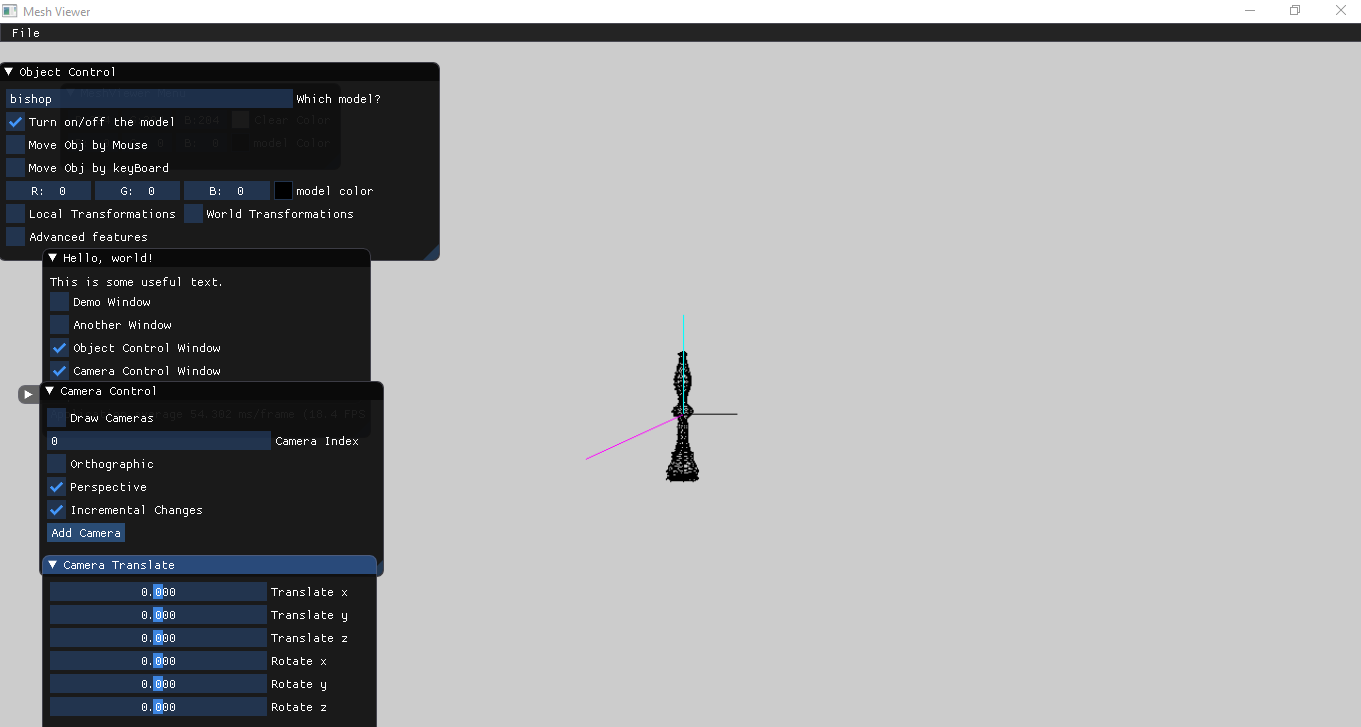
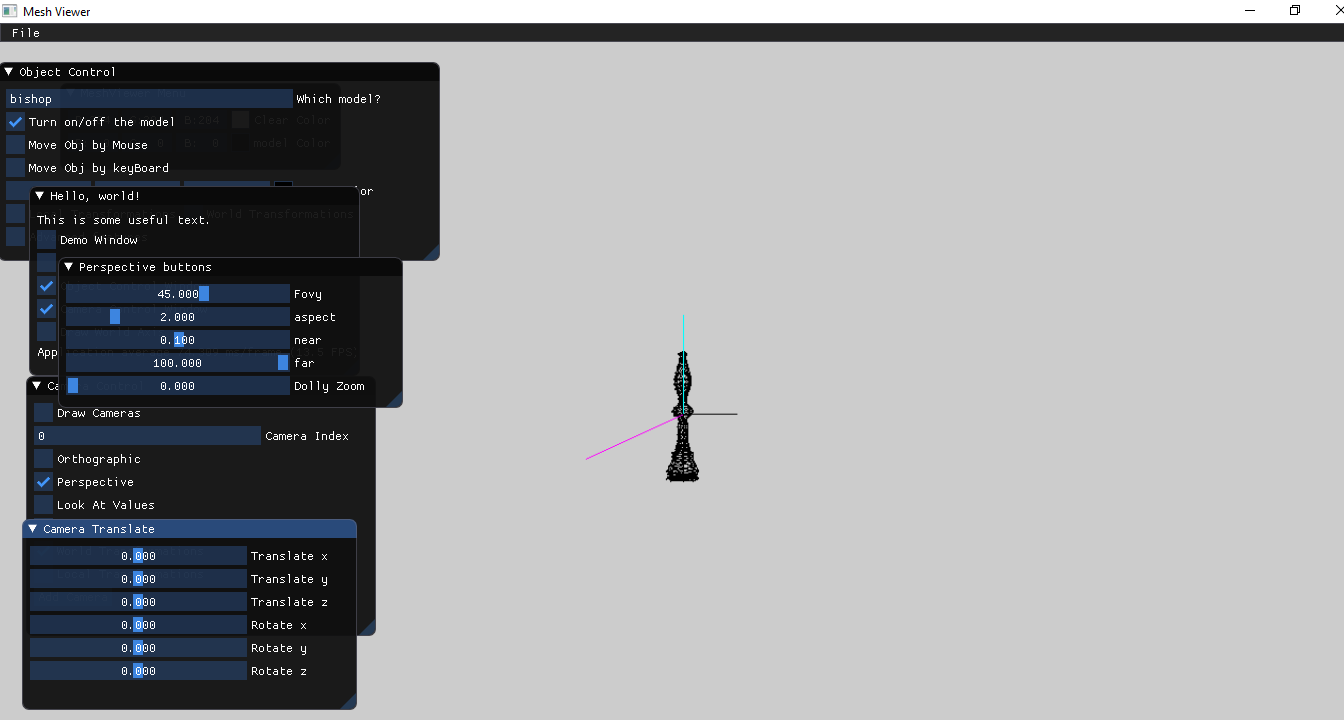
Pushing Assignment 1 part c final report and images.

diff --git a/Viewer/src/Renderer.cpp b/Viewer/src/Renderer.cpp
@@ -287,6 +287,22 @@ void Renderer::drawModelAxies(Scene& scene, MeshModel meshModel)
 	glm::fvec4 localY = mat * glm::fvec4(0, 140, 0, 1);
 	glm::fvec4 localZ = mat * glm::fvec4(0, 0, 140, 1);
 
+	modelAxies.x /= modelAxies.w;
+	modelAxies.y /= modelAxies.w;
+	modelAxies.z /= modelAxies.w;
+
+	localX.x /= localX.w;
+	localX.y /= localX.w;
+	localX.z /= localX.w;
+
+	localY.x /= localY.w;
+	localY.y /= localY.w;
+	localY.z /= localY.w;
+
+	localZ.x /= localZ.w;
+	localZ.y /= localZ.w;
+	localZ.z /= localZ.w;
+
 	DrawLine(modelAxies, localX, glm::fvec3(0, 0, 0));
 	DrawLine(modelAxies, localY, glm::fvec3(0, 1, 1));
 	DrawLine(modelAxies, localZ, glm::fvec3(1, 0, 1));
@@ -355,22 +371,31 @@ void Renderer::drawBoudingBox(Scene& scene, MeshModel meshModel, bool isLocal)
 
 	glm::fvec4 f3 = mat * glm::fvec4(meshModel.max_x, meshModel.min_y, meshModel.max_z, 1);
 
+	f0.x /= f0.w; f0.y /= f0.w; f0.z /= f0.w;
+	f1.x /= f1.w; f1.y /= f1.w; f1.z /= f1.w;
+	f2.x /= f2.w; f2.y /= f2.w; f2.z /= f2.w;
+	f3.x /= f3.w; f3.y /= f3.w; f3.z /= f3.w;
+	f4.x /= f4.w; f4.y /= f4.w; f4.z /= f4.w;
+	f6.x /= f6.w; f6.y /= f6.w; f6.z /= f6.w;
+	f7.x /= f7.w; f7.y /= f7.w; f7.z /= f7.w;
+	f8.x /= f8.w; f8.y /= f8.w; f8.z /= f8.w;
 
-	DrawLine(f0, f1, glm::vec3(1, 1, 1));
-	DrawLine(f0, f4, glm::vec3(1, 1, 1));
-	DrawLine(f0, f3, glm::vec3(1, 1, 1));
 
-	DrawLine(f7, f1, glm::vec3(1, 1, 1));
-	DrawLine(f7, f4, glm::vec3(1, 1, 1));
-	DrawLine(f7, f6, glm::vec3(1, 1, 1));
+	DrawLine(f0, f1, glm::vec3(1, 0, 0));
+	DrawLine(f0, f4, glm::vec3(1, 0, 0));
+	DrawLine(f0, f3, glm::vec3(1, 0, 0));
 
-	DrawLine(f2, f3, glm::vec3(1, 1, 1));
-	DrawLine(f2, f1, glm::vec3(1, 1, 1));
-	DrawLine(f6, f2, glm::vec3(1, 1, 1));
+	DrawLine(f7, f1, glm::vec3(1, 0, 0));
+	DrawLine(f7, f4, glm::vec3(1, 0, 0));
+	DrawLine(f7, f6, glm::vec3(1, 0, 0));
 
-	DrawLine(f8, f4, glm::vec3(1, 1, 1));
-	DrawLine(f8, f3, glm::vec3(1, 1, 1));
-	DrawLine(f8, f6, glm::vec3(1, 1, 1));
+	DrawLine(f2, f3, glm::vec3(1, 0, 0));
+	DrawLine(f2, f1, glm::vec3(1, 0, 0));
+	DrawLine(f6, f2, glm::vec3(1, 0, 0));
+
+	DrawLine(f8, f4, glm::vec3(1, 0, 0));
+	DrawLine(f8, f3, glm::vec3(1, 0, 0));
+	DrawLine(f8, f6, glm::vec3(1, 0, 0));
 }
 
 void Renderer::drawCameras(Scene& scene)
@@ -391,21 +416,17 @@ void Renderer::drawCameras(Scene& scene)
 		cords[0].y = transformP1.y;
 		cords[0].z = transformP1.z;
 
-		cords[0].z = transformP1.w;
 
 		glm::vec4 transformP2 = mat * glm::vec4(cords[1], 1);
 		cords[1].x = transformP2.x;
 		cords[1].y = transformP2.y;
 		cords[1].z = transformP2.z;
-		cords[1].z = transformP2.w;
 
 
 		glm::vec4 transformP3 = mat * glm::vec4(cords[2], 1);
 		cords[2].x = transformP3.x;
 		cords[2].y = transformP3.y;
 		cords[2].z = transformP3.z;
-
-		cords[2].z = transformP3.w;
 
 		if (cords[0].x > cords[1].x)
 			DrawTriangle(cords[2], cords[1], cords[0], glm::fvec3(0));

diff --git a/Viewer/src/main.cpp b/Viewer/src/main.cpp
@@ -27,6 +27,7 @@ static bool worldTrans = false;
 static bool incChanges = false;
 static bool cameraWorldTrans = false;
 static bool cameraLocalTrans = false;
+static bool lookatCB = false;
 static char modelName[100];
 static double mouseX = 640;
 static double mouseY = 360;
@@ -534,6 +535,7 @@ void DrawImguiMenus(ImGuiIO& io, Scene& scene)
 			ImGui::InputInt("Camera Index", &num, number, number1, false);
 			ImGui::Checkbox("Orthographic", &ortho);
 			ImGui::Checkbox("Perspective", &persp);
+			ImGui::Checkbox("Look At Values", &lookatCB);
 			ImGui::Checkbox("Incremental Changes", &incChanges);
 			if (incChanges) {
 				ImGui::Checkbox("World Transformations", &cameraWorldTrans);
@@ -611,6 +613,12 @@ void DrawImguiMenus(ImGuiIO& io, Scene& scene)
 
 					scene.GetActiveCamera().updateLocalTransformation();
 				}
+			}
+
+			if (lookatCB) {
+				ImGui::SliderFloat("Eye X Value", &scene.GetActiveCamera().eye.x, -30, 30);
+				ImGui::SliderFloat("Eye Y Value", &scene.GetActiveCamera().eye.y, -30, 30);
+				ImGui::SliderFloat("Eye Z Value", &scene.GetActiveCamera().eye.z, -30, 30);
 			}
 		}
 

diff --git a/Viewer/src/Camera.cpp b/Viewer/src/Camera.cpp
@@ -78,7 +78,7 @@ const glm::mat4x4& Camera::GetViewTransformation()
 		mat = adjustMat * ortho * mat * invMat;
 	}
 	else {
-		mat = adjustMat * pers * mat * invMat * scaleDown;
+		mat = glm::fmat4(adjustMat) * pers * mat * invMat * scaleDown;
 	}
 	return mat;
 }
@@ -149,6 +149,14 @@ void Camera::updateOrth()
 
 void Camera::updatePers()
 {
+	/*pers = glm::mat4(1.0f);
+	pers[3][3] = 0;
+	pers[0][0] = 1 / (tan(fovy / 2) * aspect);
+	pers[1][1] = 1 / (tan(fovy / 2));
+	pers[2][2] = -1 * (perfar + pernear) / (pernear - perfar);
+	pers[3][2] = 1;
+	pers[2][3] = 2 * perfar * pernear / (pernear - perfar);*/
+
 	pers = glm::perspective(fovy, aspect, pernear, perfar);
 }
 

diff --git a/Assignment1Report/Assignment1Report_part3.md b/Assignment1Report/Assignment1Report_part3.md
@@ -17,7 +17,7 @@ We opened the "cow.obj", the initialization looked like this:
 ![alt text](https://github.com/HaifaGraphicsCourses/computer-graphics-2023-abedalftah-rogeazzam/blob/master/Assignment1Report/FirstReq1.png)
 
 
-We changed the ups,downs,... , and got the following results:
+We changed the ups,downs,left,right and near,far, then applied the glm::orthographic function on the new values, then multiply it by look at and transformation matrices (implement look at matrix by applying glm::lookAt function, giving it eye, at, up values) , and got the following results:
 
 
 ![alt text](https://github.com/HaifaGraphicsCourses/computer-graphics-2023-abedalftah-rogeazzam/blob/master/Assignment1Report/FirstReq2.png)
@@ -31,14 +31,14 @@ Requirement 2:
 
 Just Like the mesh transformations from the previous assignment, we apply transformations by multiplying world * local (implementation done in Camera class), in this order: translate * rotate, then we apply inverse to the result matrix (Instead of transforming the camera, we inverse transform the mesh's and keep the camera at the "eye" location looking at "at" coordinate and the "up" being Y axis).
 Here's an example of applying:
-translate x - 300
-translate y - -200
-rotate y - 50
-rotate z - -30
+translate x - 300 (world) 
+translate y - -150 (world) 
+rotate y - 50 (local) 
+rotate z - -30 (local) 
 
 ![alt text](https://github.com/HaifaGraphicsCourses/computer-graphics-2023-abedalftah-rogeazzam/blob/master/Assignment1Report/SecondReq.png)
 
-Also, By pressing the "Show World Axis" checkbox and choosing incremental changes, you can start translating the camera's X axis left and right by pressing R and L keyboard keys.
+Also, By pressing the "Incremental Changes" checkbox and choosing world transformations, you can start translating the camera's X axis left and right by pressing R and L keyboard keys.
 
 
 Requirement 3:
@@ -92,18 +92,14 @@ Making approximatly same transformations in the world frame then in the local fr
 
 Requirement 6:
 
-Initially, loading "bunny.obj" and showing the bounding box by pressing "Advanced features" checkbox, then pressing "bound box" checkbox:
+Transforming (translating then rotating) the mesh both in the local and world frame, and showing the local Bounding Box:
 
 ![alt text](https://github.com/HaifaGraphicsCourses/computer-graphics-2023-abedalftah-rogeazzam/blob/master/Assignment1Report/SixthReq1.png)
 
-
-Transforming (translating then rotating) the mesh in the local frame: (The bounding box appears in white)
+Transforming (translating then rotating) the mesh both in the local and world frame, and showing the world Bounding Box:
 
 ![alt text](https://github.com/HaifaGraphicsCourses/computer-graphics-2023-abedalftah-rogeazzam/blob/master/Assignment1Report/SixthReq2.png)
 
-Transforming (translating then rotating) the mesh in the world frame:
-
-![alt text](https://github.com/HaifaGraphicsCourses/computer-graphics-2023-abedalftah-rogeazzam/blob/master/Assignment1Report/SixthReq3.png)
 
 
 Requirement 7:
@@ -119,15 +115,15 @@ Showing vertices normals after making transformations:
 
 Requirement 8:
 
-Implementing Orthographic projection:
+Implementing Orthographic projection (Using glm::orthographic to get the orthographic project, and multiplying it by look at and transformation matrices):
 
 ![alt text](https://github.com/HaifaGraphicsCourses/computer-graphics-2023-abedalftah-rogeazzam/blob/master/Assignment1Report/EigthReq1.png)
 
-Implementing Orthographic projection and moving the camera closer (as you can see there's no visible change):
+Implementing Orthographic projection and moving the camera away (as you can see there's no visible change):
 
 ![alt text](https://github.com/HaifaGraphicsCourses/computer-graphics-2023-abedalftah-rogeazzam/blob/master/Assignment1Report/EigthReq2.png)
 
-Implementing Perspective projection:
+Implementing Perspective projection (Using glm::perspective):
 
 ![alt text](https://github.com/HaifaGraphicsCourses/computer-graphics-2023-abedalftah-rogeazzam/blob/master/Assignment1Report/EigthReq3.png)
 
@@ -175,6 +171,8 @@ Making Dolly zoom:
 
 Requirement 12:
 
+You can choose which camera index you'd like to use (each has it's own orthographic/perspective, look at and transformations)
+
 ![alt text](https://github.com/HaifaGraphicsCourses/computer-graphics-2023-abedalftah-rogeazzam/blob/master/Assignment1Report/TwelvthReq1.png)
 
 ![alt text](https://github.com/HaifaGraphicsCourses/computer-graphics-2023-abedalftah-rogeazzam/blob/master/Assignment1Report/TwelvthReq2.jpeg)
@@ -182,21 +180,36 @@ Requirement 12:
 
 Requirement 13:
 
-Here you can show the World Axis, Bound Box, Vertices normals and face normals, for the mesh written in the "which model?" bar:
+Here you can choose Object control window checkbox, and show the mesh written in the "which model?" bar (and pressing Turn On checkbox):
 
 ![alt text](https://github.com/HaifaGraphicsCourses/computer-graphics-2023-abedalftah-rogeazzam/blob/master/Assignment1Report/TherteenReq1.png)
 
-After opening the Camera Control Window, you can choose either Orthographic or Perspective projection, by choosing Orthographic a windo for changing up, down,... values will open:
+By pressing the "Advanced features" checkbox you can control the local/world Bounding Box, and showing faces/vertices normals:
 
 ![alt text](https://github.com/HaifaGraphicsCourses/computer-graphics-2023-abedalftah-rogeazzam/blob/master/Assignment1Report/TherteenReq2.png)
 
-By choosing Perspective a different window for fovy, aspect, near, far values will open:
+After opening the Camera Control Window, you can choose either Orthographic or Perspective projection, by choosing Orthographic a window for changing up, down,lft,right and near,far values(for the orthographic matrix) will open:
 
 ![alt text](https://github.com/HaifaGraphicsCourses/computer-graphics-2023-abedalftah-rogeazzam/blob/master/Assignment1Report/TherteenReq3.png)
 
-Choosing incremental changes a window for the camera transformations will open (Inverse will be made to the mesh):
+By choosing Perspective a different window for fovy, aspect, near, far values(for the perspective matrix) will open:
 
 ![alt text](https://github.com/HaifaGraphicsCourses/computer-graphics-2023-abedalftah-rogeazzam/blob/master/Assignment1Report/TherteenReq4.png)
+
+By choosing Look At values, a window for changin the Eye values (That will affect the position of the camera, by changing the look at matrix for the camera)
+
+![alt text](https://github.com/HaifaGraphicsCourses/computer-graphics-2023-abedalftah-rogeazzam/blob/master/Assignment1Report/TherteenReq5.png)
+
+
+Choosing incremental changes will give two options: World or Local:
+
+
+![alt text](https://github.com/HaifaGraphicsCourses/computer-graphics-2023-abedalftah-rogeazzam/blob/master/Assignment1Report/TherteenReq6.png)
+
+
+After choosing one a window for the camera transformations will open (Inverse will be made to the mesh):
+
+![alt text](https://github.com/HaifaGraphicsCourses/computer-graphics-2023-abedalftah-rogeazzam/blob/master/Assignment1Report/TherteenReq7.png)
 
 
 Requirement 14:
